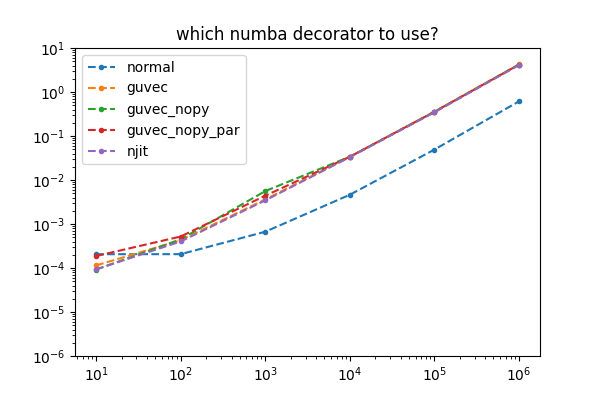
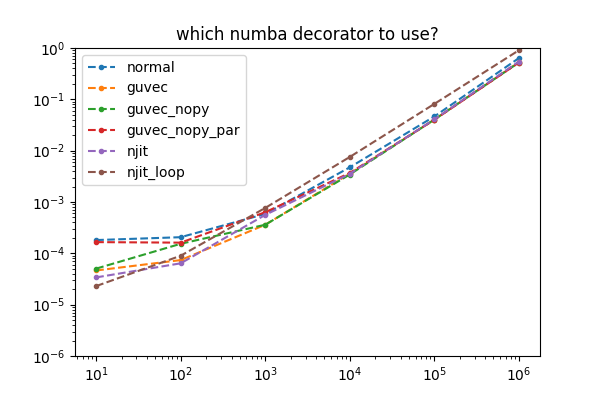
updated

diff --git a/benchmarks/numba_spatial_vectorize/bench_spatial.py b/benchmarks/numba_spatial_vectorize/bench_spatial.py
@@ -16,16 +16,16 @@ from src.Atomic import LTELib
 def _nj_by_ni_Line_gu_nopy_par(gi, gj, w0, Te, nj_by_ni_L):
 
     nL = gi.shape[0]
-    for l in nb.prange(nL*10):
-        l = l // 10
+    for l in nb.prange(nL):
+
         nj_by_ni_L[l] = LTELib.Boltzmann_distribution(gi[l], gj[l], Cst.h_ * Cst.c_ / w0[l], Te[:])
 
 @nb.guvectorize([(nb.uint8[:], nb.uint8[:], nb.float64[:], nb.float64[:], nb.float64[:,:])], '(n),(n),(n),(m)->(n,m)', nopython=True)
 def _nj_by_ni_Line_gu_nopy(gi, gj, w0, Te, nj_by_ni_L):
 
     nL = gi.shape[0]
-    for l in range(nL*10):
-        l = l // 10
+    for l in range(nL):
+
         nj_by_ni_L[l] = LTELib.Boltzmann_distribution(gi[l], gj[l], Cst.h_ * Cst.c_ / w0[l], Te[:])
 
 
@@ -33,8 +33,8 @@ def _nj_by_ni_Line_gu_nopy(gi, gj, w0, Te, nj_by_ni_L):
 def _nj_by_ni_Line_gu(gi, gj, w0, Te, nj_by_ni_L):
 
     nL = gi.shape[0]
-    for l in range(nL*10):
-        l = l // 10
+    for l in range(nL):
+
         nj_by_ni_L[l] = LTELib.Boltzmann_distribution(gi[l], gj[l], Cst.h_ * Cst.c_ / w0[l], Te[:])
 
 @nb.njit( ['float64[:,:](uint8[:],uint8[:],float64[:],float64[:])'] )
@@ -42,9 +42,20 @@ def _nj_by_ni_Line_njit(gi, gj, w0, Te):
 
     nj_by_ni_L = np.empty(gi.shape+Te.shape, dtype=np.double)
     nL = gi.shape[0]
-    for l in range(nL*10):
-        l = l // 10
+    for l in range(nL):
+
         nj_by_ni_L[l,:] = LTELib.Boltzmann_distribution(gi[l], gj[l], Cst.h_ * Cst.c_ / w0[l], Te[:])
+
+    return nj_by_ni_L
+
+@nb.njit( ['float64[:,:](uint8[:],uint8[:],float64[:],float64[:])'] )
+def _nj_by_ni_Line_njit_loop(gi, gj, w0, Te):
+
+    nj_by_ni_L = np.empty(Te.shape+gi.shape, dtype=np.double)
+    nT = Te.shape[0]
+    for t in range(nT):
+
+        nj_by_ni_L[t,:] = LTELib.Boltzmann_distribution(gi[:], gj[:], Cst.h_ * Cst.c_ / w0[:], Te[t])
 
     return nj_by_ni_L
 
@@ -96,6 +107,18 @@ def ni_nj_LTE_njit(atom, Te, Ne):
     nj_by_ni_L = _nj_by_ni_Line_njit(Line['gi'][:], Line['gj'][:], Line['w0'][:], Te[:,])
     return nj_by_ni_L
 
+def ni_nj_LTE_njit_loop(atom, Te, Ne):
+    r""" """
+    Level = atom.Level
+    Line  = atom.Line
+    Cont  = atom.Cont
+
+    assert Te.shape == Ne.shape, "Te and Ne should have the same shape"
+
+    ## ! could be optimized to Te-Ne-array
+    nj_by_ni_L = _nj_by_ni_Line_njit_loop(Line['gi'][:], Line['gj'][:], Line['w0'][:], Te[:,])
+    return nj_by_ni_L
+
 def ni_nj_LTE(atom, Te, Ne):
     r""" """
     Level = atom.Level
@@ -145,12 +168,13 @@ if __name__ == "__main__":
         "guvec_nopy"  : ni_nj_LTE_gu_nopy,
         "guvec_nopy_par"  : ni_nj_LTE_gu_nopy_par,
         "njit"   : ni_nj_LTE_njit,
+        "njit_loop"   : ni_nj_LTE_njit_loop,
     })
     _result = collections.OrderedDict()
     for _key in _functions.keys():
         _result[_key] = []
 
-    _nLoop = 3
+    _nLoop = 10
 
     _atom, _ = AtomCls.InitAtom('../../data/conf/H.conf', isHydrogen=True)
 
